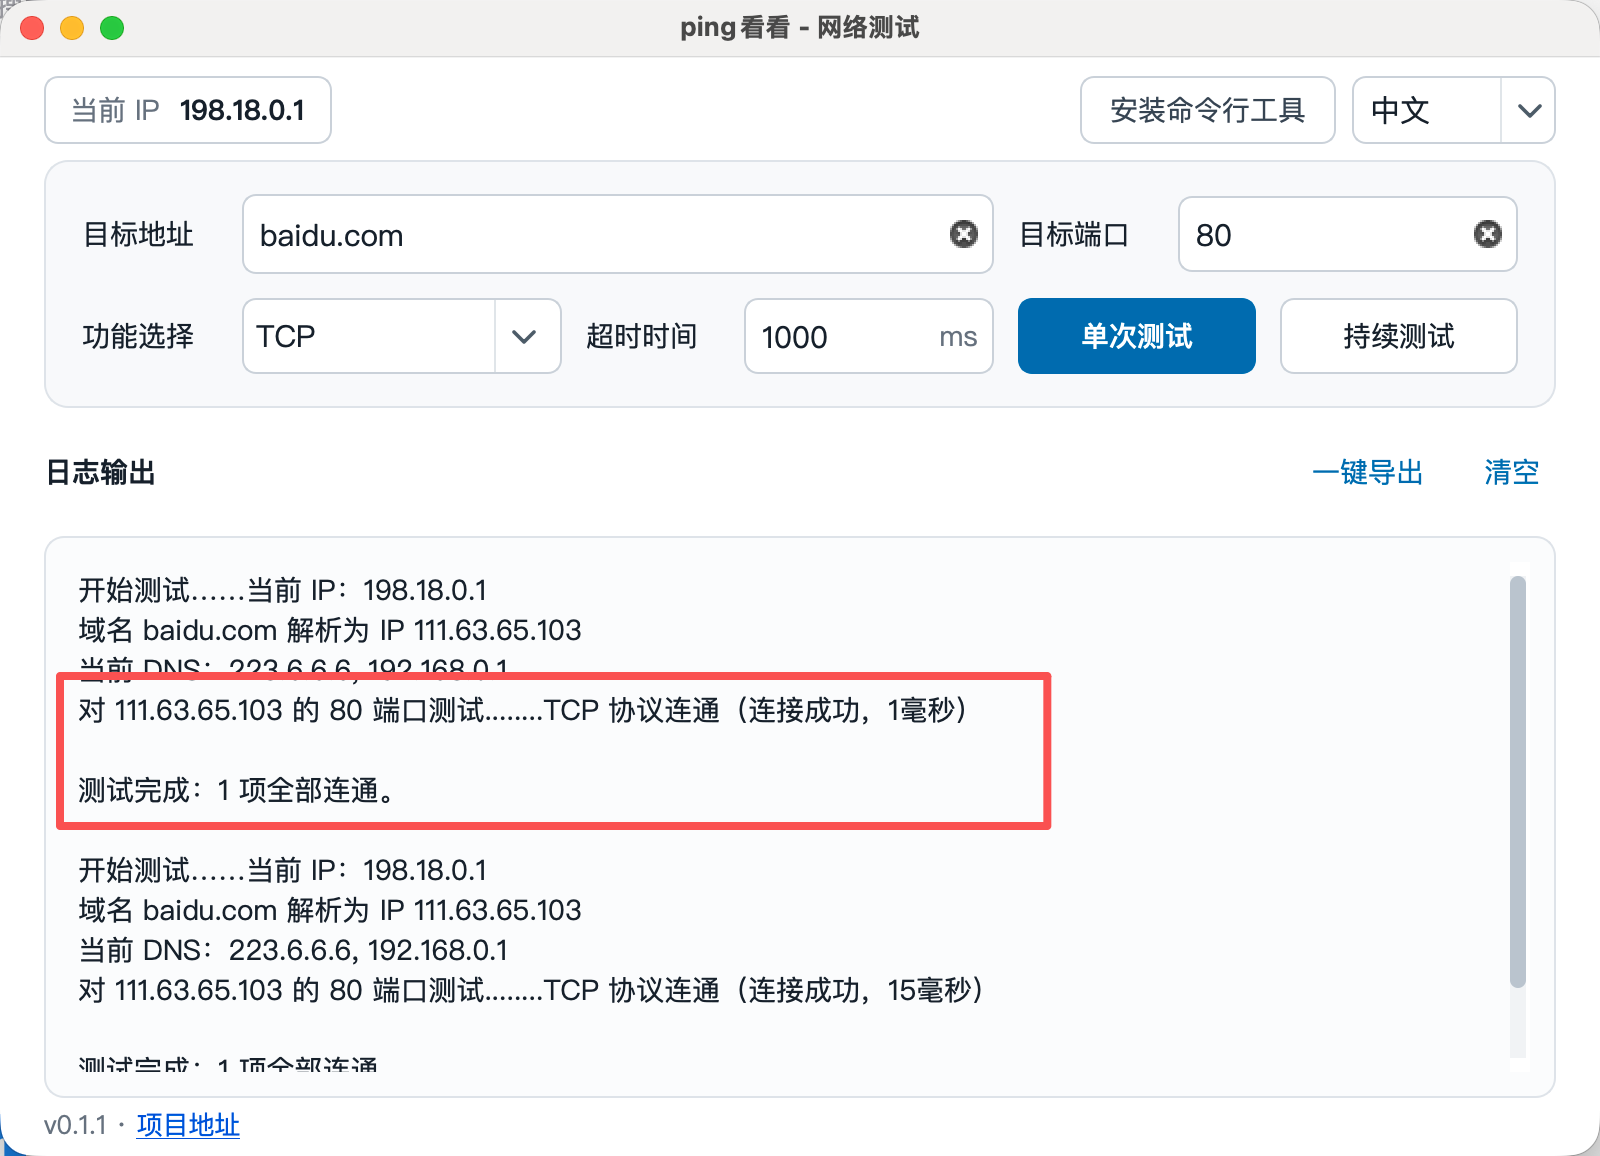
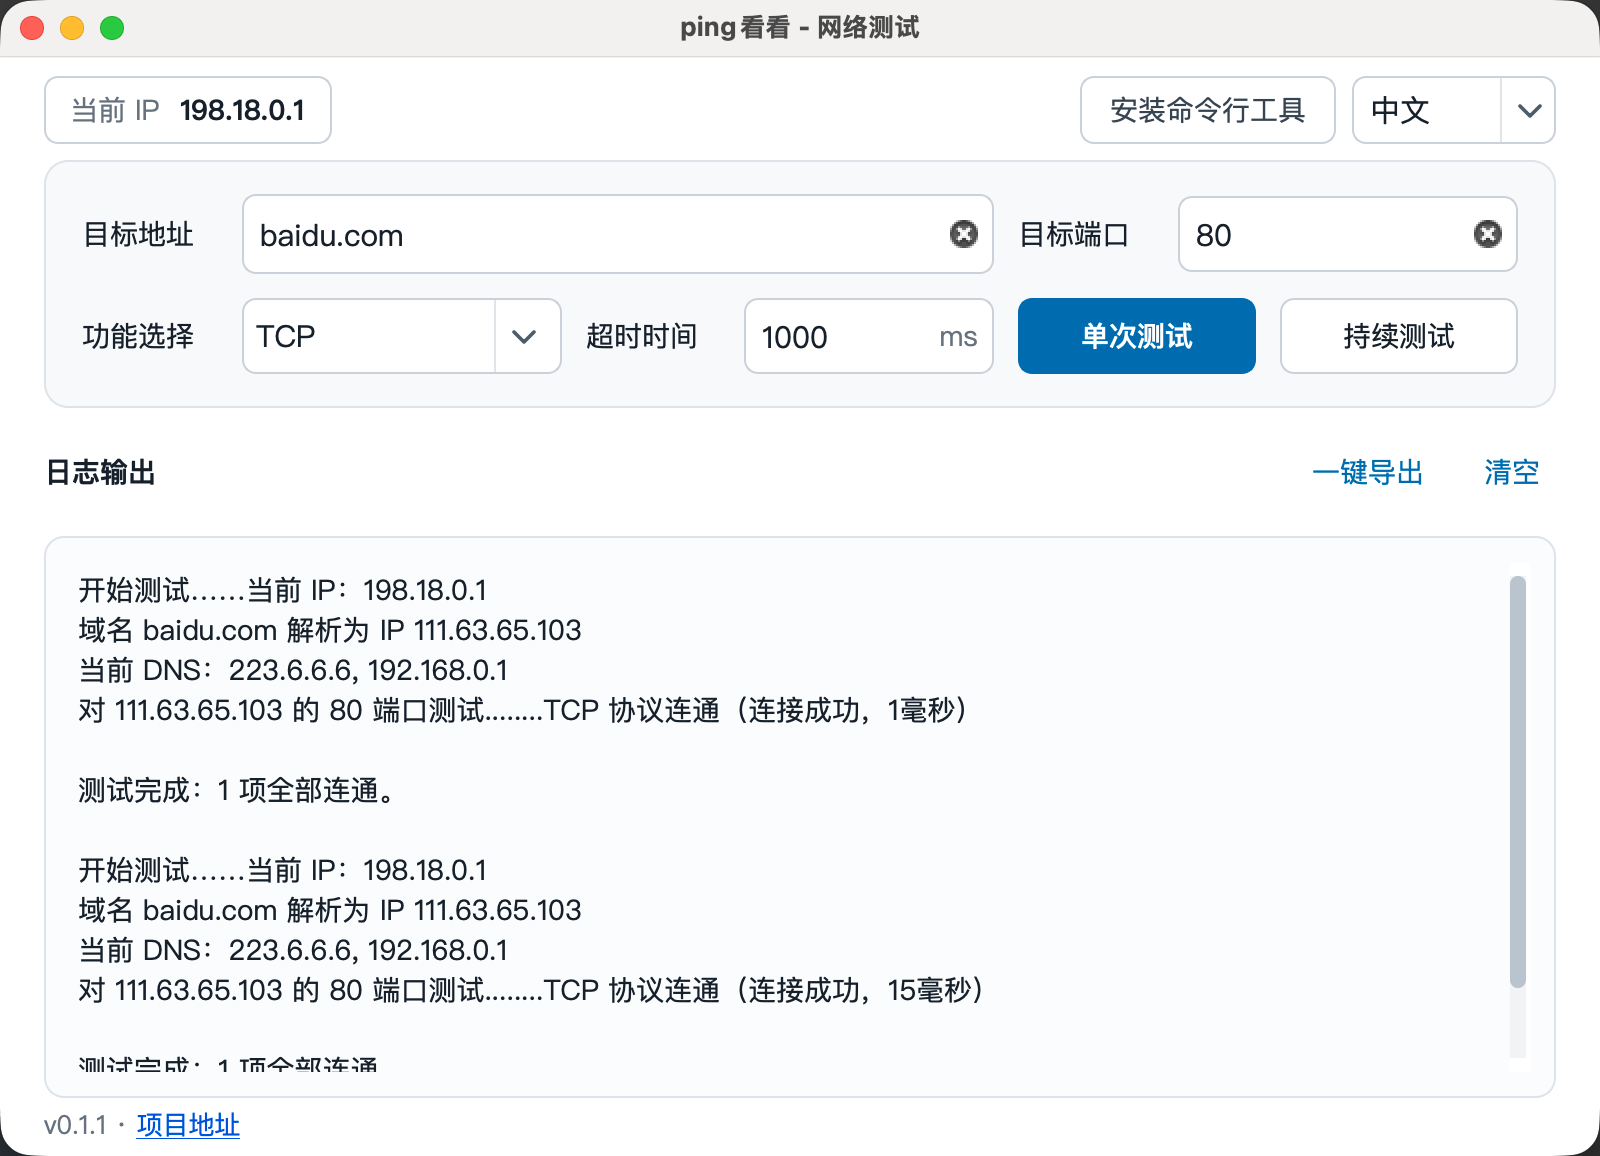
更新界面预览与报告图片说明

diff --git a/README.md b/README.md
@@ -17,6 +17,10 @@
 
 ![pingkk 图形界面示例](assets/图形界面示例.png)
 
+图形界面支持将当前测试结果导出为报告图片，方便保存或发送给他人。
+
+![pingkk 测试报告示例](assets/测试报告示例.png)
+
 ## 下载
 
 前往 [Releases](https://github.com/trah01/pingkk/releases) 下载适合你系统的版本。
